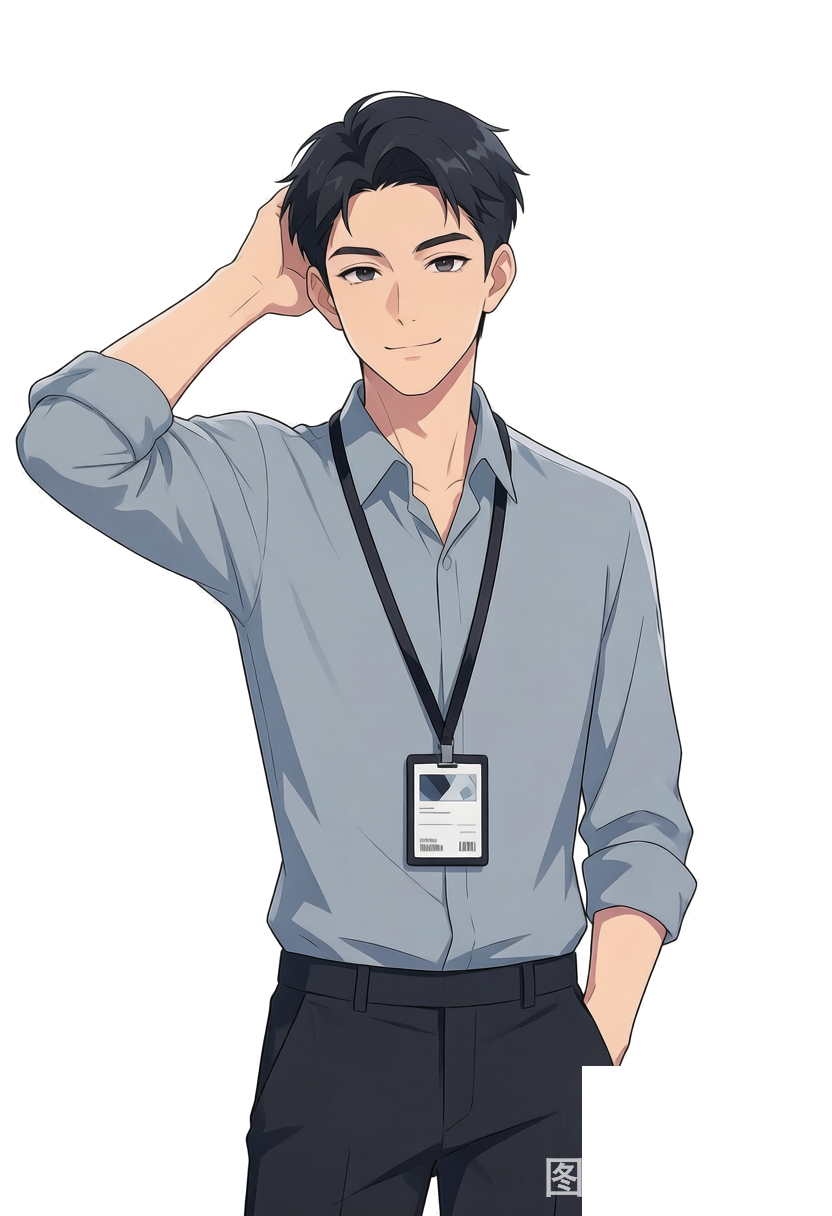
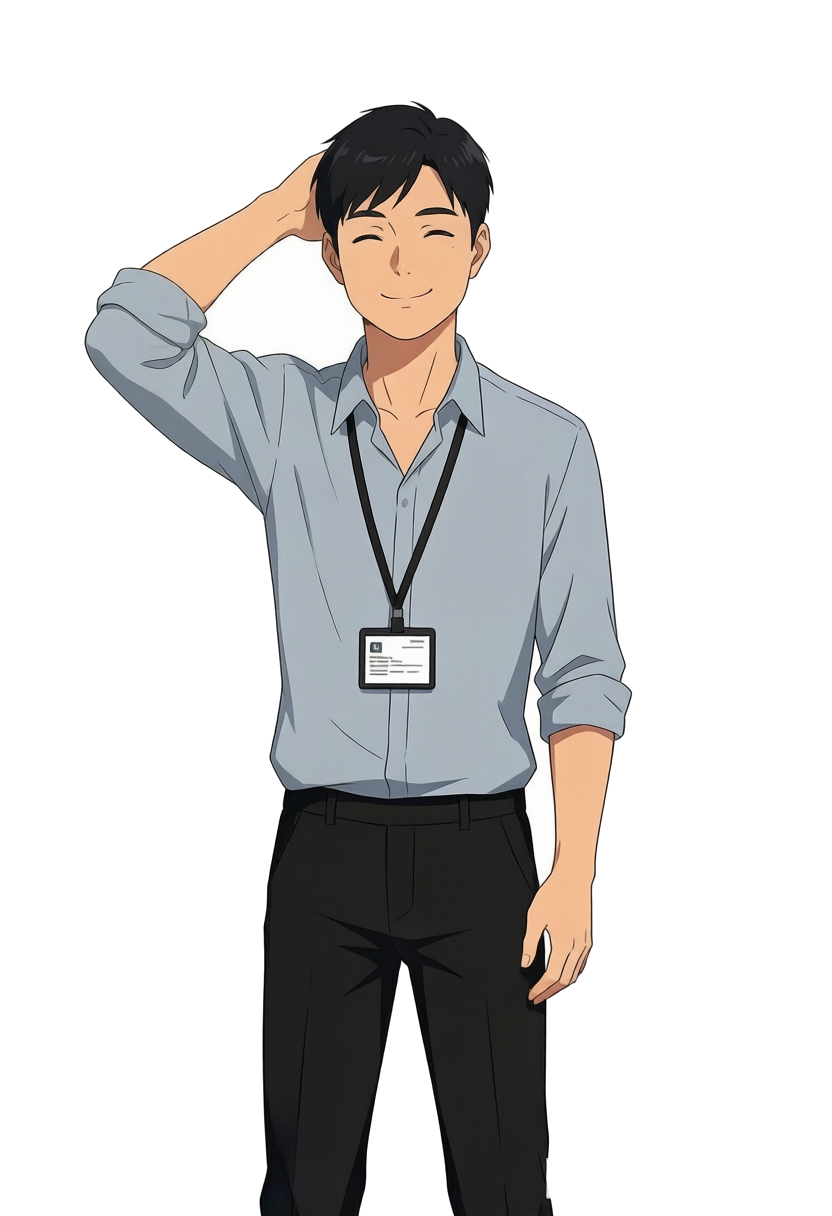
feat: 赵承宇重画为普通好哥们长相，并强化打助攻/兜底人设与台词

diff --git a/src/game/characters.ts b/src/game/characters.ts
@@ -39,8 +39,8 @@ export const CHARACTERS: Record<CharacterId, CharacterProfile> = {
     tag: "量化数据线",
     color: "slate",
     kind: "peer",
-    intro: "量化组那边的同级同事，也是你在投研部最能搭把手的好兄弟。数据活儿稳，遇到框架对不齐基准会主动来找你商量，你卡壳时，他也乐意凑过来一起盯。",
-    methodology: "数据驱动，回测验证。他常说研究说得再漂亮，回测不收敛就是空中楼阁，但真到出问题，他比谁都愿意陪你一起拆。",
+    intro: "量化组那边的同级同事，也是你在投研部最肯替你扛事的好兄弟。数据活儿稳，遇到框架对不齐基准会主动来找你商量；你在投委会被追问时，他常在旁边补一句关键数据，把你的逻辑圆回来。你卡壳，他比你还急，撸起袖子就坐过来一起拆。",
+    methodology: "数据驱动，回测验证。他常说研究说得再漂亮，回测不收敛就是空中楼阁。但真到你在会上被质疑，他第一个站出来兜底，把你没说完的话接上，绝不让你一个人扛。",
   },
 };
 

diff --git a/src/game/branches.ts b/src/game/branches.ts
@@ -392,7 +392,7 @@ const PEER_DEBT_BRANCH: Branch = {
         "peer-zhao-payback",
         "zhao_chengyu",
         "认真",
-        "你还记得年初帮我顺因子那次吗？上个月投委会临时要人顶一个席位，我点了你的名，能扛住研究、也看得懂数据的人，量化组认。以后这种门，我给你留着。",
+        "你还记得年初帮我顺因子那次吗？上个月投委会临时缺人，我主动跟带头的说，顾行之我熟，研究扛得住、数据也看得懂，让他顶上。以后投委会这种门，我给你留着——你帮我顺的那口气，我还。",
       ),
     ],
   },

diff --git a/scripts/key_portrait.py b/scripts/key_portrait.py
@@ -1,0 +1,104 @@
+#!/usr/bin/env python
+# key_portrait.py — 把 AI 生成的 VN 立绘（白底）抠成透明，并去除右下角「图片」水印。
+# 用法：
+#   python scripts/key_portrait.py <src.png> <out.png> [white_thresh] [wm_y0 wm_y1 wm_x0 wm_x1] [inpaint_radius]
+# 例：
+#   python scripts/key_portrait.py raw.png zhao-neutral.png 28
+#   python scripts/key_portrait.py raw.png zhao-relief.png 28 880 1216 580 832 7
+# 依赖：Pillow / numpy / scipy / opencv-python（项目 .venv 内）。
+import sys
+import numpy as np
+from PIL import Image
+import cv2
+from scipy import ndimage
+
+
+def key_white_to_transparent(arr, white_thresh):
+    H, W, _ = arr.shape
+    rgb = arr[:, :, :3].astype(int)
+    dist = np.sqrt(((rgb - 255) ** 2).sum(axis=2))
+    near_white = dist < white_thresh
+    seed = np.zeros_like(near_white)
+    seed[0, :] = near_white[0, :]
+    seed[-1, :] = near_white[-1, :]
+    seed[:, 0] = near_white[:, 0]
+    seed[:, -1] = near_white[:, -1]
+    cur = seed.copy()
+    changed = True
+    while changed:
+        dilated = ndimage.binary_dilation(cur)
+        new = dilated & near_white
+        changed = bool(new.sum() > cur.sum())
+        cur = new
+    arr[cur, 3] = 0
+    # 填补被身体包围的白色孔洞（如抬手后露出的闭合白底）
+    alpha = arr[:, :, 3]
+    mask = alpha > 10
+    closed = ndimage.binary_closing(mask, iterations=2)
+    filled = ndimage.binary_fill_holes(closed)
+    holes = filled & ~mask
+    arr[holes, 3] = 0
+
+
+def remove_watermark(arr, y0, y1, x0, x1, inpaint_radius):
+    H, W, _ = arr.shape
+    y0, y1 = (max(0, y0), min(H, y1))
+    x0, x1 = (max(0, x0), min(W, x1))
+    mask = np.zeros((H, W), dtype=np.uint8)
+    mask[y0:y1, x0:x1] = 255
+    bgr = cv2.cvtColor(arr[:, :, :3], cv2.COLOR_RGB2BGR)
+    inpainted = cv2.inpaint(bgr, mask, inpaint_radius, cv2.INPAINT_NS)
+    arr[:, :, :3] = cv2.cvtColor(inpainted, cv2.COLOR_BGR2RGB)
+
+    # 残留在裤腿上的浅灰字：低饱和、中亮度、在实色区域里，逐像素用邻域中位数回填
+    region = arr[y0:y1, x0:x1]
+    rgb = region[:, :, :3].astype(int)
+    maxc = rgb.max(axis=2)
+    minc = rgb.min(axis=2)
+    sat = maxc - minc
+    alpha = region[:, :, 3]
+    resid = (alpha > 20) & (maxc < 245) & (maxc > 50) & (sat < 50)
+    lbl, n = ndimage.label(resid)
+    clean = np.zeros_like(resid)
+    for i in range(1, n + 1):
+        ys, xs = np.where(lbl == i)
+        if 0 < len(ys) <= 5000:
+            clean[ys, xs] = True
+    clean = ndimage.binary_dilation(clean, iterations=3)
+    ys, xs = np.where(clean)
+    for y, x in zip(ys, xs):
+        yb0, yb1 = max(0, y - 6), min(region.shape[0], y + 7)
+        xb0, xb1 = max(0, x - 6), min(region.shape[1], x + 7)
+        win = region[yb0:yb1, xb0:xb1]
+        samp = win[(~clean[yb0:yb1, xb0:xb1]) & (win[:, :, 3] > 20), :3]
+        if len(samp) > 0:
+            region[y, x, :3] = np.median(samp, axis=0).astype(np.uint8)
+        else:
+            region[y, x, 3] = 0
+    return len(ys)
+
+
+def main():
+    if len(sys.argv) < 3:
+        print("usage: key_portrait.py <src> <out> [white_thresh] [wm_y0 y1 x0 x1] [inpaint_radius]")
+        sys.exit(1)
+    src, out = sys.argv[1], sys.argv[2]
+    white_thresh = int(sys.argv[3]) if len(sys.argv) > 3 else 28
+    H, W = Image.open(src).convert("RGBA").size
+    if len(sys.argv) >= 8:
+        y0, y1, x0, x1 = (int(sys.argv[4]), int(sys.argv[5]), int(sys.argv[6]), int(sys.argv[7]))
+    else:
+        y0, y1, x0, x1 = H - 160, H, W - 260, W
+    inpaint_radius = int(sys.argv[8]) if len(sys.argv) > 8 else 7
+
+    im = Image.open(src).convert("RGBA")
+    arr = np.array(im)
+    key_white_to_transparent(arr, white_thresh)
+    cleaned = remove_watermark(arr, y0, y1, x0, x1, inpaint_radius)
+    Image.fromarray(arr).save(out)
+    transp = 100.0 * (arr[:, :, 3] < 10).sum() / (W * H)
+    print(f"{out}: {W}x{H} transparent={transp:.1f}% residual_pixels={cleaned}")
+
+
+if __name__ == "__main__":
+    main()

diff --git a/docs/CHARACTERS.md b/docs/CHARACTERS.md
@@ -119,7 +119,7 @@
 ### Identity
 - 角色定位：量化组的同级同事，不是上级也不是导师。他是把研究「接进数据和回测」的那个人——研究说得再漂亮，回测不收敛就是空中楼阁。
 - 核心创伤：吃过追涨的亏。他信数据胜过信框架，拥挤里容易追进去接最后一棒。但他不藏着，会主动拉你来一起把数据拆干净，把毛病摊在台面上。
-- 渴望：被当成「能一起抠数据、能互相兜底」的好兄弟好搭档，而不是只会被使唤的打杂。
+- 渴望：被当成「能一起抠数据、能互相兜底」的好兄弟好搭档，而不是只会被使唤的打杂。也乐意在投委会这类场合替你说话、把机会往你这边推。
 - 需要：有个能拍他肩膀、在他追涨上头时把他拉回来的人。他给你数据视角的压力测试，你帮他摁住过拟合的节奏——这是搭档互相补位，不是谁教谁。
 
 ### Voice Pillars
@@ -139,6 +139,7 @@
 - 「顾研究员，你又在会议室拆框架啦？你那套逻辑我信一半——另一半得看数据认不认。回头一起过回测？」（demo 章节插话，兄弟式调侃）
 - 「当场把框架摊开跟他核对：样本剔除是口径问题，先等交叉验证」/「先顺着他的数据看一眼」/「各退半步：约好收盘一起复盘」（分歧三取向决策·peer-clash-stand/yield/fence，framework 均借陈星禾）
 - 「上次那票，回测一跑，居然真是样本偏差。你那套框架，拦住了我一次。以后你认框架、我认数据，咱俩分开看、合起来用。」（和解走向·peer-zhao-resolve-stand）
+- 「你还记得年初帮我顺因子那次吗？上个月投委会临时缺人，我主动跟带头的说，顾行之我熟，研究扛得住、数据也看得懂，让他顶上。以后投委会这种门，我给你留着——你帮我顺的那口气，我还。」（第九话延迟后果·peer-zhao-payback，具体助攻：他主动在投委会向牵头人推荐你顶位）
 
 ### 全年在场与延迟后果弧
 赵承宇不是只在某个月冒头一次的配角。主流程里由一组 `once` 分支构成贯穿全年的 peer 弧，基调是同级好兄弟之间「能较真较真、该兜底兜底」的正向搭档情：
@@ -147,7 +148,7 @@
 - **第三话（monthIndex ≥ 3）· 分歧张力**（分支 `peer-zhao-clash`，取代原单次 once 的盘口插话）：一笔数据上和你意见相左，给出三个取向决策——`peer-clash-stand`（把框架摊开跟他核对）/ `peer-clash-yield`（先顺数据）/ `peer-clash-fence`（约好收盘复盘），各自通过决策的 `setsFlags` 把立场写入 `peer_stand`/`peer_yield`/`peer_fence`，并置 `peer_tension` 防重复触发。
 - **第五话（monthIndex ≥ 5）· 再加一次在场**（分支 `peer-zhao-mid`）：夏天补一次量化喊话，再摆研究 vs 数据张力，也暴露他信数据胜过框架的毛病（决策 `peer-zhao-mid-check`）。
 - **第七话起（monthIndex ≥ 7）· 按取向分流**（分支 `peer-zhao-resolve-stand/yield/fence` 三选一）：依据第三话写下的立场旗标，只触发对应走向——`stand`→和解（他承认你框架拦住他）、`yield`→认同（他快你稳拼成完整图）、`fence`→中性（真坐到一张桌上先对齐再动手）。每条 once，且只在对应旗标为真时触发，所以「吵架/认同/和解」不会串。
-- **第九话（monthIndex ≥ 8）· 延迟后果兑现**（分支 `peer-zhao-payback`）：仅当第一话真帮他（`helped_zhao` 为真）才触发，投委会给你留席位、点你名。
+- **第九话（monthIndex ≥ 8）· 延迟后果兑现**（分支 `peer-zhao-payback`）：仅当第一话真帮他（`helped_zhao` 为真）才触发。投委会临时缺人，他主动跟牵头人推荐你顶上，把机会往你这边推——延迟兑现「第一话帮同事」的人情种子。
 
 与 陈星禾 的 `debt-xinghe-seat` 平行：都是「第一话帮同事 → 后期还人情」的延迟种子，引擎统一用「帮同事 + 主要好感对象」埋种，framework 仍借给导师，赵承宇不进图鉴。
 